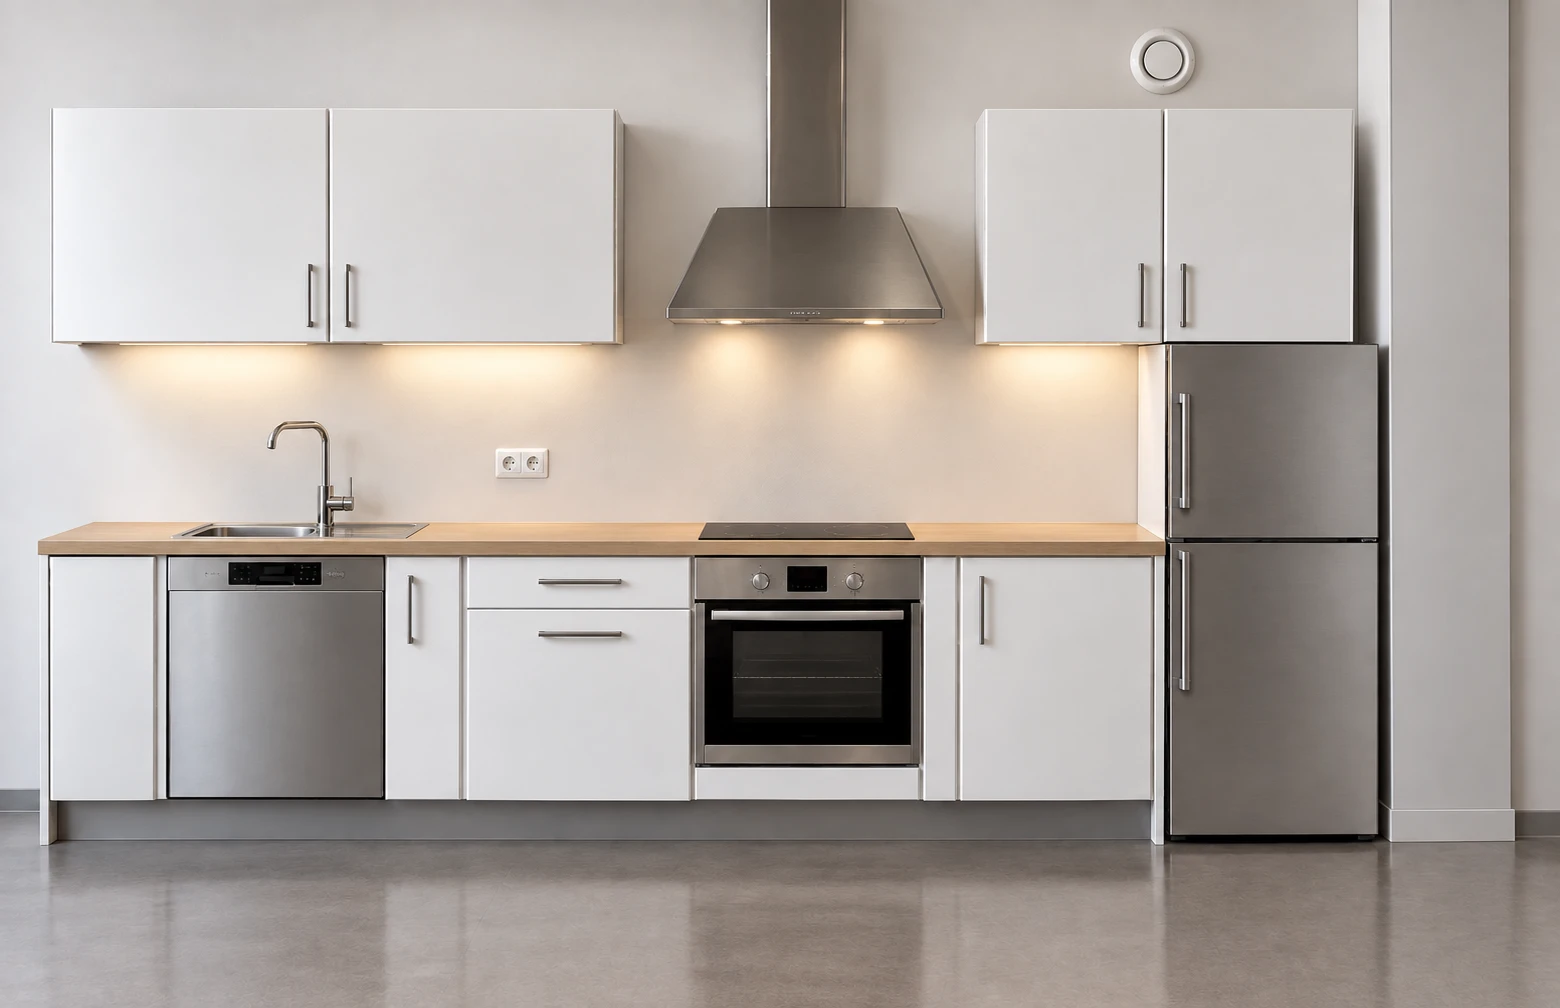
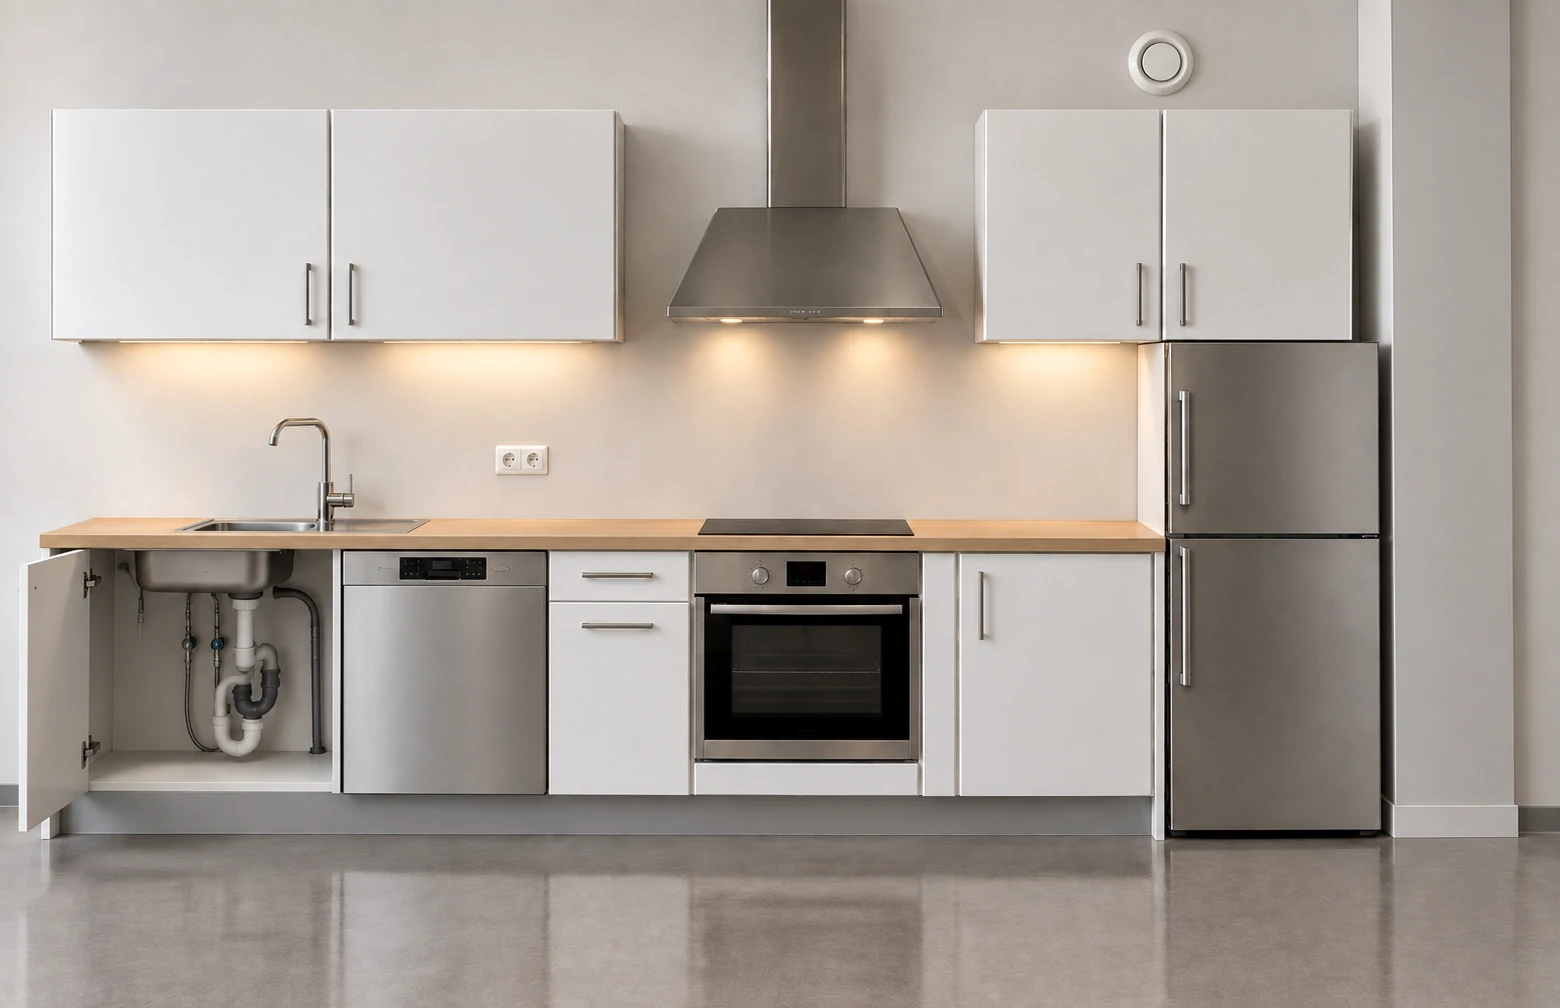
Vastuunjako: keittiökuvassa allaskaappi auki
Jukan uusi kuva: allaskaapin putket ja hajulukko näkyvät, astianpesukone
altaan vieressä. Pisteet siirretty.

diff --git a/src/lib/responsibility/content.ts b/src/lib/responsibility/content.ts
@@ -105,8 +105,8 @@ const KEITTIO: ResponsibilityItem[] = [
     text: "Yhtiö vastaa, koska hana ja sen sulkuventtiili ovat osa huoneiston vesijohtojärjestelmää, jonka yhtiö on toteuttanut. Yhtiön vastuu ulottuu perusjärjestelmiin myös huoneiston sisällä.",
     law: "AOYL 4:2 § 2 mom",
     note: "Jos osakas on itse vaihtanut hanan, yhtiö vastaa vain, jos asennus rinnastuu yhtiön toteuttamaan ja yhtiö on voinut valvoa sen (AOYL 4:2 § 3 mom).",
-    x: 192,
-    y: 272,
+    x: 205,
+    y: 285,
   },
   {
     key: "keittio-viemari",
@@ -116,8 +116,8 @@ const KEITTIO: ResponsibilityItem[] = [
     text: "Yhtiö vastaa viemärin kunnosta perusjärjestelmänä. Hajulukon puhdistaminen ja tukoksen avaaminen kuuluu asukkaan tavanomaiseen huolelliseen hoitoon.",
     law: "AOYL 4:2 § 2 mom ja 4:3 § 2 mom",
     note: "Jos tukos on aiheutunut huolimattomasta käytöstä, avaamisen kustannus voi jäädä osakkaalle.",
-    x: 270,
-    y: 405,
+    x: 163,
+    y: 439,
   },
   {
     key: "keittio-allas",
@@ -127,8 +127,8 @@ const KEITTIO: ResponsibilityItem[] = [
     text: "Laissa on nimenomainen rajaus: yhtiö ei vastaa osakehuoneistoissa olevista altaista. Altaan uusiminen ja korjaus on siis osakkaan.",
     law: "AOYL 4:2 § 2 mom",
     note: "Jos allas rikkoutuu yhtiön vastuulla olevan vian tai korjaustyön takia, yhtiö korjaa vahingon perustasoon.",
-    x: 122,
-    y: 337,
+    x: 125,
+    y: 352,
   },
   {
     key: "keittio-tiskikone",
@@ -138,8 +138,8 @@ const KEITTIO: ResponsibilityItem[] = [
     text: "Kone ja sen liitokset ovat osakkaan hankkimia eivätkä kuulu yhtiön toteuttamaan perusjärjestelmään. Osakas vastaa liitännästä, vuotokaukalosta ja niiden kunnosta.",
     law: "AOYL 4:2 § 3 mom ja 4:3 §",
     note: "Liitännästä on tehtävä kirjallinen ilmoitus yhtiölle ennen työtä, koska se voi vaikuttaa yhtiön vastuulla olevaan putkistoon (AOYL 4:7 §).",
-    x: 176,
-    y: 433,
+    x: 285,
+    y: 426,
   },
   {
     key: "keittio-liesi",
@@ -150,7 +150,7 @@ const KEITTIO: ResponsibilityItem[] = [
     law: "AOYL 4:3 § 1 mom",
     note: "Jos yhtiö on hankkinut liedet ja hyväksynyt ne vastuulleen, vastuu on yhtiön (AOYL 4:2 § 3 mom).",
     x: 518,
-    y: 414,
+    y: 433,
   },
   {
     key: "keittio-liesituuletin",

diff --git a/src/components/responsibility/rooms/KitchenArt.tsx b/src/components/responsibility/rooms/KitchenArt.tsx
@@ -3,7 +3,8 @@
 
 /**
  * Keittiö edestä valokuvana (Jukka 21.9.2026): yläkaapit, liesikupu,
- * ilmanvaihtoventtiili, allas, tiskikone, uuni ja jääkaappi.
+ * ilmanvaihtoventtiili, avoin allaskaappi (vesijohdot, sulut ja hajulukko),
+ * astianpesukone, uuni ja jääkaappi.
  *
  * Kuva on 1560 × 1008 px ja täyttää viewBoxin 1000 × 640 (leikkaa ~3 yksikköä
  * ylhäältä ja alhaalta). Kuvapikseli → viewBox: x · 0,641, y · 0,641 − 3.
